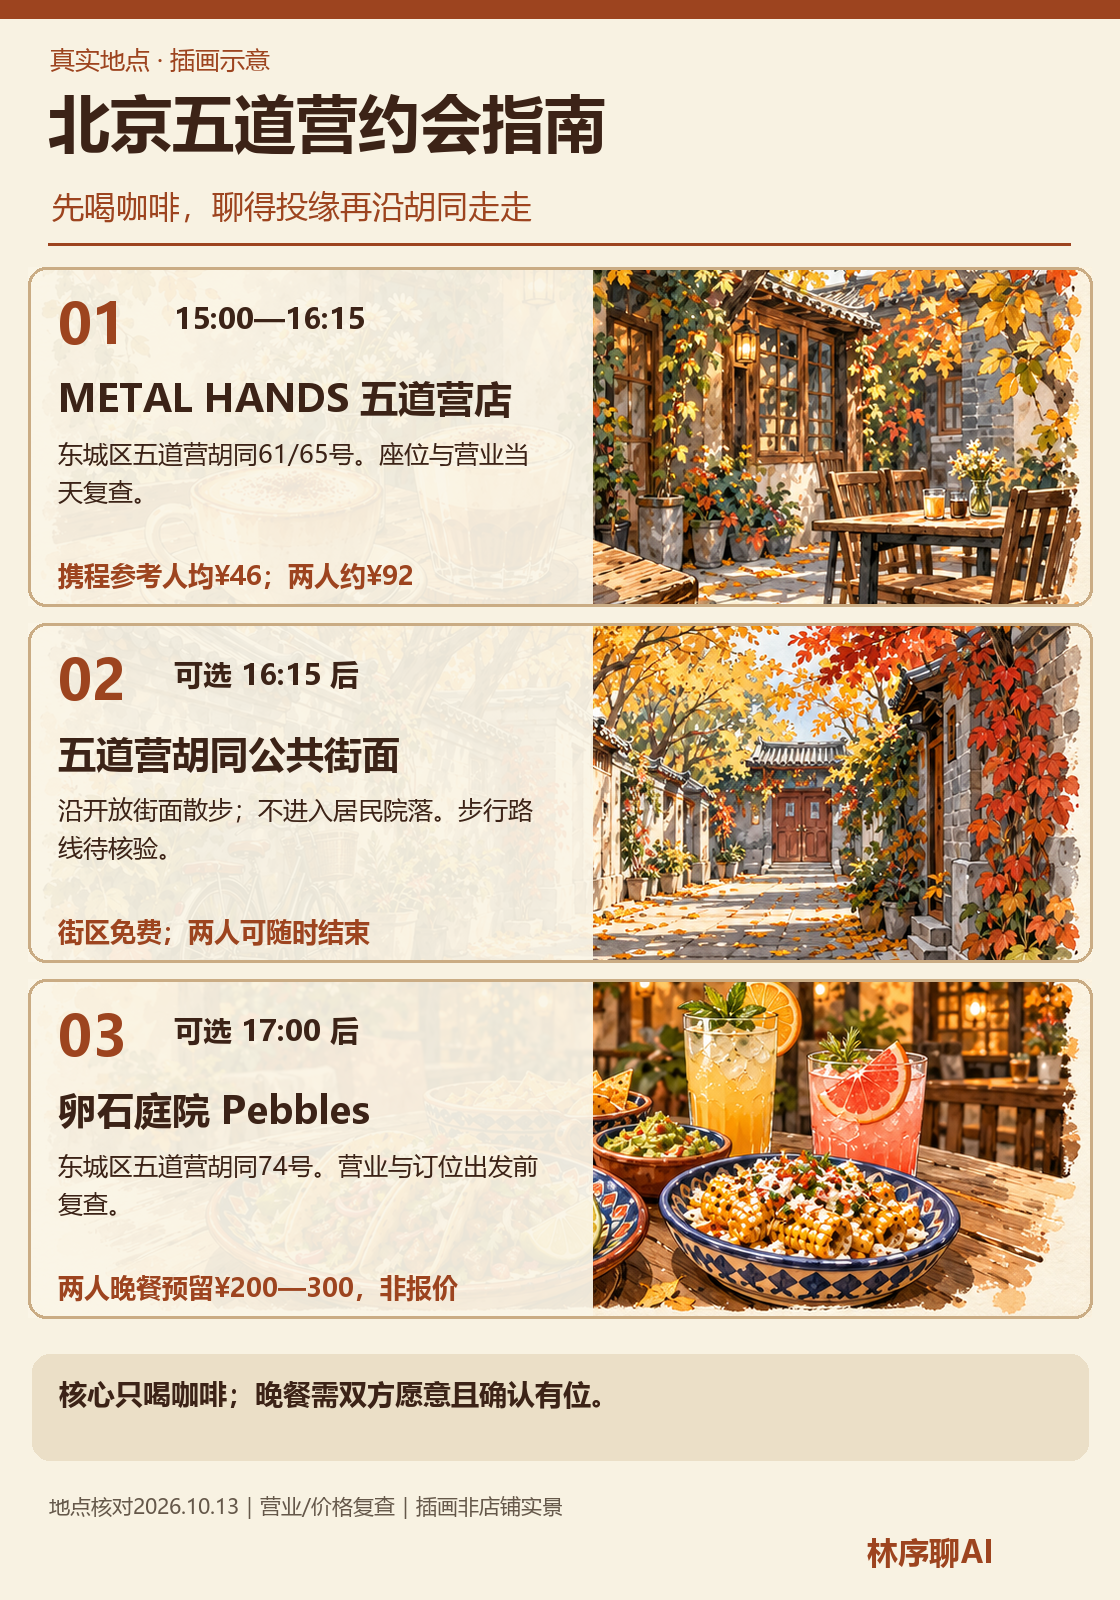
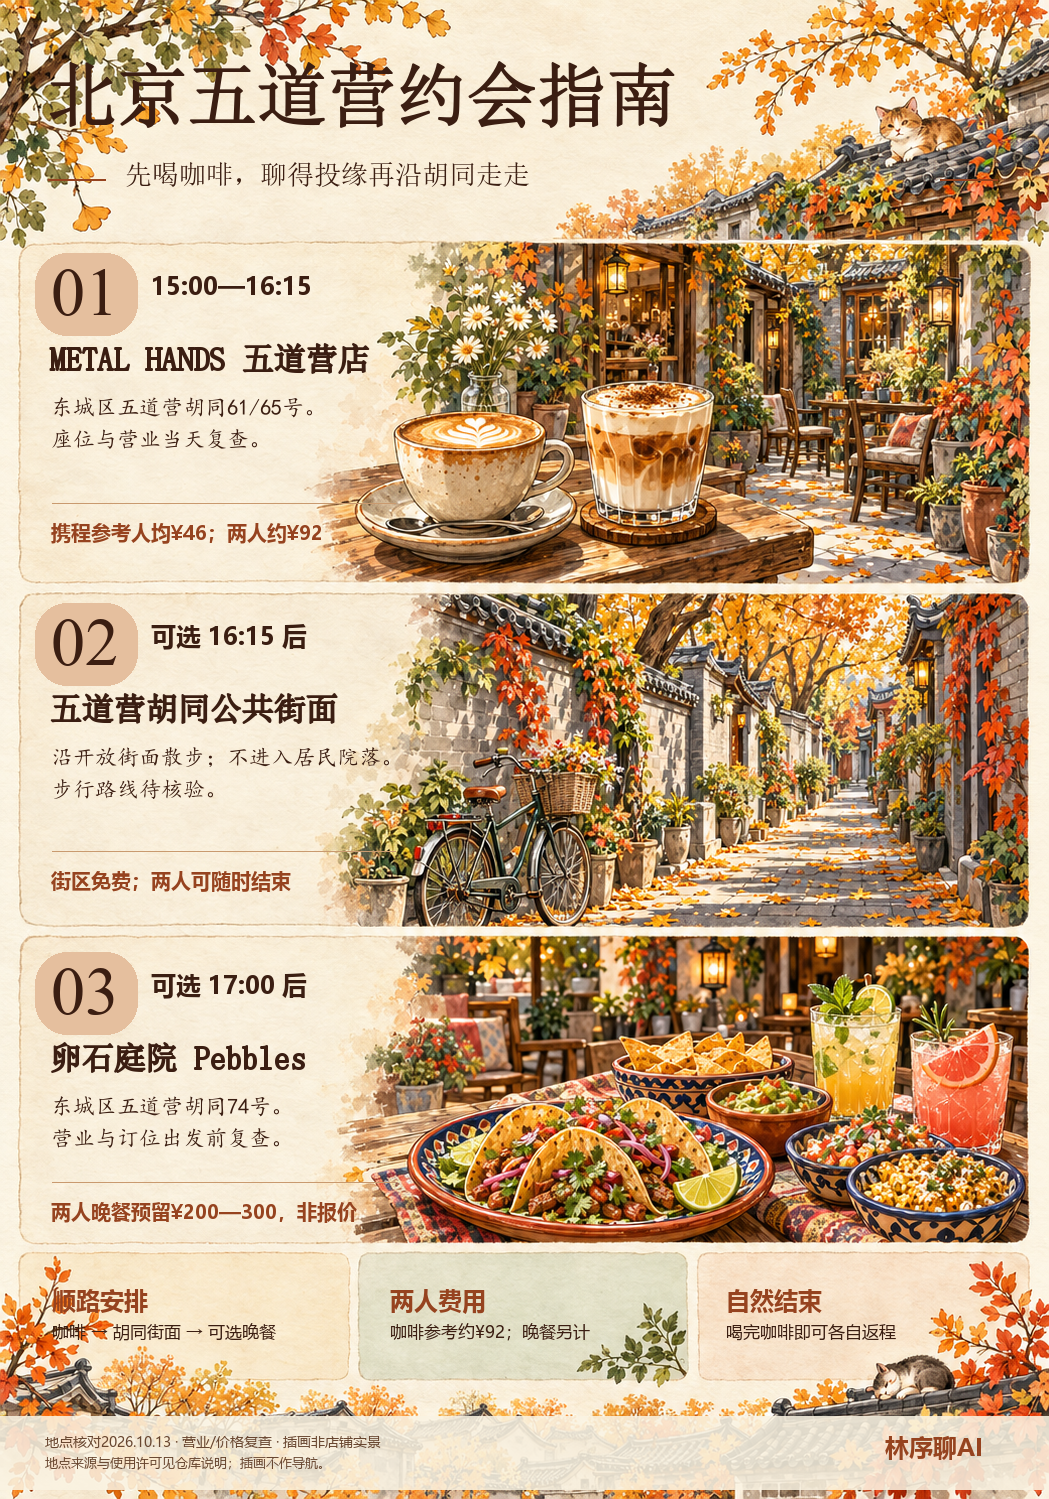
Redesign all sample posters in illustrated editorial style

diff --git a/scripts/render_poster.py b/scripts/render_poster.py
@@ -1,97 +1,125 @@
-"""Render editable Chinese itinerary text over illustration panels; no map API."""
+"""Render verified itinerary copy over watercolor artwork."""
 from __future__ import annotations
 
 import json
 import sys
 from pathlib import Path
-
-from PIL import Image, ImageDraw, ImageFont, ImageOps
+from PIL import Image, ImageDraw, ImageFont
 
 ROOT = Path(__file__).resolve().parents[1]
-FONT = Path('C:/Windows/Fonts/msyh.ttc')
-FONT_BOLD = Path('C:/Windows/Fonts/msyhbd.ttc')
-SIZE = (1120, 1600)
-PANEL_BOXES = [(28, 267, 1092, 606), (28, 623, 1092, 962), (28, 979, 1092, 1318)]
-ART_CROPS = [(0.02, 0.05, 0.98, 0.36), (0.02, 0.36, 0.98, 0.66), (0.02, 0.67, 0.98, 0.96)]
+SERIF = Path("C:/Windows/Fonts/simsun.ttc")
+SERIF_BOLD = Path("C:/Windows/Fonts/simsun.ttc")
+KAI = Path("C:/Windows/Fonts/simkai.ttf")
+SANS = Path("C:/Windows/Fonts/msyh.ttc")
+SANS_BOLD = Path("C:/Windows/Fonts/msyhbd.ttc")
+LATIN = Path("C:/Windows/Fonts/times.ttf")
+WIDTH, HEIGHT = 1049, 1499
+BROWN = (59, 30, 18)
+RUST = (150, 67, 31)
+MUTED = (104, 70, 48)
+PANELS = [(236, 574), (586, 922), (935, 1253)]
 
 
-def font(size: int, bold: bool = False) -> ImageFont.FreeTypeFont:
-    path = FONT_BOLD if bold else FONT
+def face(path: Path, size: int) -> ImageFont.FreeTypeFont:
     if not path.exists():
-        raise RuntimeError('Missing Windows Chinese font; set FONT/FONT_BOLD in the script.')
+        raise RuntimeError(f"Required font missing: {path}")
     return ImageFont.truetype(str(path), size)
 
 
-def wrap(draw: ImageDraw.ImageDraw, text: str, face: ImageFont.FreeTypeFont, max_width: int) -> list[str]:
-    lines, current = [], ''
+def fit_font(draw: ImageDraw.ImageDraw, text: str, path: Path, size: int, width: int) -> ImageFont.FreeTypeFont:
+    while size > 18 and draw.textlength(text, font=face(path, size)) > width:
+        size -= 2
+    return face(path, size)
+
+
+def lines(draw: ImageDraw.ImageDraw, text: str, font: ImageFont.FreeTypeFont, max_width: int) -> list[str]:
+    result: list[str] = []
+    current = ""
     for char in text:
-        proposal = current + char
-        if current and draw.textlength(proposal, font=face) > max_width:
-            lines.append(current)
+        candidate = current + char
+        if current and draw.textlength(candidate, font=font) > max_width:
+            result.append(current)
             current = char
         else:
-            current = proposal
+            current = candidate
     if current:
-        lines.append(current)
-    return lines
+        result.append(current)
+    return result
+
+
+def caption(draw: ImageDraw.ImageDraw, label: str, body: str, x: int, y: int, width: int) -> None:
+    draw.text((x, y), label, font=face(SANS_BOLD, 24), fill=RUST)
+    body_font = face(SANS, 17)
+    for index, line in enumerate(lines(draw, body, body_font, width)[:3]):
+        draw.text((x, y + 37 + index * 27), line, font=body_font, fill=BROWN)
 
 
 def render(source: Path) -> Path:
-    data = json.loads(source.read_text(encoding='utf-8'))
-    required = {'title', 'subtitle', 'tag', 'art', 'theme', 'steps', 'summary', 'footer'}
+    data = json.loads(source.read_text(encoding="utf-8"))
+    required = {"title", "subtitle", "tag", "art", "theme", "steps", "summary", "footer"}
     if missing := required - data.keys():
-        raise ValueError(f'Missing fields: {sorted(missing)}')
-    if len(data['steps']) != 3:
-        raise ValueError('Template requires exactly three steps')
-    if '林序聊AI' in data['title'] or '林序聊AI' in data['footer']:
-        raise ValueError('Brand label is drawn by the fixed template')
+        raise ValueError(f"Missing fields: {sorted(missing)}")
+    if len(data["steps"]) != 3:
+        raise ValueError("Template requires exactly three steps")
+    art = Image.open(ROOT / data["art"]).convert("RGB").resize((WIDTH, HEIGHT), Image.Resampling.LANCZOS)
+    draw = ImageDraw.Draw(art)
 
-    art = Image.open(ROOT / data['art']).convert('RGB')
-    paper = (248, 242, 226) if data['theme'] == 'autumn' else (240, 242, 231)
-    accent = (157, 68, 31) if data['theme'] == 'autumn' else (64, 99, 94)
-    dark = (60, 35, 23)
-    image = Image.new('RGB', SIZE, paper)
-    draw = ImageDraw.Draw(image)
-    draw.rectangle((0, 0, SIZE[0], 18), fill=accent)
-    draw.text((50, 42), data['tag'], font=font(25), fill=accent)
-    title_face = font(62, True)
-    if draw.textlength(data['title'], font=title_face) > 1020:
-        title_face = font(54, True)
-    draw.text((48, 80), data['title'], font=title_face, fill=dark)
-    draw.text((52, 184), data['subtitle'], font=font(32), fill=accent)
-    draw.line((48, 244, 1070, 244), fill=accent, width=3)
+    title_font = fit_font(draw, data["title"], SERIF_BOLD, 70, 735)
+    draw.text((47, 59), data["title"], font=title_font, fill=BROWN, stroke_width=1)
+    subtitle_font = fit_font(draw, data["subtitle"], SERIF, 27, 710)
+    draw.line((48, 179, 105, 179), fill=RUST, width=2)
+    draw.text((125, 160), data["subtitle"], font=subtitle_font, fill=BROWN)
+    draw.line((940, 179, 997, 179), fill=RUST, width=2)
 
-    for i, (step, box, fractions) in enumerate(zip(data['steps'], PANEL_BOXES, ART_CROPS), start=1):
-        ax1, ay1, ax2, ay2 = fractions
-        crop = art.crop((int(art.width * ax1), int(art.height * ay1), int(art.width * ax2), int(art.height * ay2)))
-        panel = ImageOps.fit(crop, (box[2] - box[0], box[3] - box[1]), method=Image.Resampling.LANCZOS)
-        image.paste(panel, box[:2])
-        overlay = Image.new('RGBA', (565, box[3] - box[1]), (250, 245, 231, 238))
-        image.paste(overlay, (box[0], box[1]), overlay)
-        draw = ImageDraw.Draw(image)
-        draw.rounded_rectangle(box, radius=18, outline=(202, 172, 132), width=3)
-        left, top = box[0] + 30, box[1] + 18
-        draw.text((left, top), f'{i:02d}', font=font(55, True), fill=accent)
-        draw.text((left + 116, top + 13), step['time'], font=font(29, True), fill=dark)
-        draw.text((left, top + 86), step['name'], font=font(38, True), fill=dark)
-        y = top + 151
-        for line in wrap(draw, step['note'], font(25), 490)[:3]:
-            draw.text((left, y), line, font=font(25), fill=dark)
-            y += 38
-        draw.text((left, box[3] - 49), step['budget'], font=font(26, True), fill=accent)
+    for index, (step, bounds) in enumerate(zip(data["steps"], PANELS), 1):
+        y0, y1 = bounds
+        draw.rounded_rectangle((35, y0 + 17, 137, y0 + 99), radius=32, fill=(229, 191, 158))
+        draw.text((51, y0 + 18), f"{index:02d}", font=face(LATIN, 68), fill=BROWN)
+        time_font = fit_font(draw, step["time"], SANS_BOLD, 25, 253)
+        draw.text((151, y0 + 32), step["time"], font=time_font, fill=BROWN)
+        name_font = fit_font(draw, step["name"], SERIF_BOLD, 32, 386)
+        draw.text((50, y0 + 106), step["name"], font=name_font, fill=BROWN, stroke_width=1)
 
-    draw = ImageDraw.Draw(image)
-    draw.rounded_rectangle((32, 1354, 1088, 1460), radius=18, fill=(235, 223, 199))
-    draw.text((59, 1374), data['summary'], font=font(28, True), fill=dark)
-    draw.text((49, 1491), data['footer'], font=font(21), fill=(101, 88, 74))
-    draw.text((867, 1530), '林序聊AI', font=font(31, True), fill=accent)
-    output = ROOT / 'examples' / 'posters' / (source.stem + '.png')
+        note_font = face(KAI, 22)
+        note_lines: list[str] = []
+        for segment in step["note"].replace("。", "。\n", 1).splitlines():
+            note_lines.extend(lines(draw, segment, note_font, 367))
+        for j, line in enumerate(note_lines[:3]):
+            draw.text((51, y0 + 160 + j * 32), line, font=note_font, fill=BROWN)
+
+        draw.line((52, y1 - 71, 395, y1 - 71), fill=(201, 154, 111), width=1)
+        budget_font = fit_font(draw, step["budget"], SANS_BOLD, 20, 365)
+        draw.text((51, y1 - 56), step["budget"], font=budget_font, fill=RUST)
+
+    captions = {
+        "first-meeting": (("顺路安排", "咖啡 → 胡同街面 → 可选晚餐"), ("两人费用", "咖啡参考约¥92；晚餐另计"), ("自然结束", "喝完咖啡即可各自返程")),
+        "half-day": (("顺路安排", "咖啡 → 武康路 → 可选晚餐"), ("两人费用", "咖啡预留¥80—120，非报价"), ("自然结束", "散步后可各自返程")),
+        "rainy-day": (("雨天安排", "咖啡后可直接返程"), ("两人费用", "饮品预留¥120—200，非报价"), ("可选晚餐", "需双方同意并确认有位")),
+    }
+    footer_cards = captions.get(source.stem, (
+        ("路线安排", data["summary"]),
+        ("核心费用", data["steps"][0]["budget"]),
+        ("出发前", "复核营业、价格和交通"),
+    ))
+    for x, item in zip((39, 377, 713), footer_cards):
+        caption(draw, *item, x + 13, 1283, 273)
+
+    cover = Image.new("RGBA", (WIDTH, 74), (250, 243, 226, 222))
+    art.paste(cover, (0, 1416), cover)
+    draw = ImageDraw.Draw(art)
+    footer = data["footer"].replace("｜", " · ")
+    footer_font = fit_font(draw, footer, SANS, 14, 700)
+    draw.text((45, 1432), footer, font=footer_font, fill=MUTED)
+    draw.text((45, 1454), "地点来源与使用许可见仓库说明；插画不作导航。", font=face(SANS, 13), fill=MUTED)
+    draw.text((885, 1430), "林序聊AI", font=face(SANS_BOLD, 24), fill=RUST)
+
+    output = ROOT / "examples" / "posters" / f"{source.stem}.png"
     output.parent.mkdir(parents=True, exist_ok=True)
-    image.save(output, optimize=True)
+    art.save(output, optimize=True)
     return output
 
 
-if __name__ == '__main__':
+if __name__ == "__main__":
     if len(sys.argv) != 2:
-        raise SystemExit('Usage: python scripts/render_poster.py examples/first-meeting.json')
+        raise SystemExit("Usage: python scripts/render_poster.py examples/first-meeting.json")
     print(render(ROOT / sys.argv[1]))

diff --git a/references/illustration-prompts.md b/references/illustration-prompts.md
@@ -1,17 +1,29 @@
-# 三张插画的提示词
+# 三张海报的水彩画底提示词
 
-这些提示词生成的是**无字场景插画**，最终海报的店名、地址、预算、来源提示和品牌标签由脚本绘制。生图模型可能改变细节，仓库提供的 `assets/*.png` 是本次实际使用的固定素材。三张插画均按用户提供的北京五道营海报的水彩纸张质感与三段结构制作；没有复制该图中的文字、评分或地图。
+最终海报使用仓库内固定的三张画底（`assets/*.png`）和 `scripts/render_poster.py` 叠字。重新生图只能得到风格相近的画底，不能保证像素一致。生图只绘场景，不写店名、地址、评分、价格或品牌字。参考图仅用于水彩质感、三段构图和留白，不复制其中的文字与店铺信息。
+
+## 通用构图与风格
+
+> 竖版约 7:10，精致编辑插画水彩海报画底，陈旧米白纸张纤维，细腻墨线、丰富但克制的场景细节。顶部约 15% 为基本空白的标题区，边缘有植物枝叶和一只小猫。中间三块圆角横幅插画，上下间隔窄；每块**左侧 42% 留浅色、干净、可读的纸张空白**，右侧 58% 是细节充足的场景，水彩边缘自然晕染。底部三块浅色信息盒与街区建筑轮廓。颜色暖棕、陶土橙、鼠尾草绿。禁止任何文字、汉字、拉丁字母、数字、伪文字、商标、店招、二维码、水印或地图。场景是艺术印象，不冒充店铺实景。
+
+画底实际生成尺寸约 1049 × 1499；排版脚本会统一到该尺寸。若使用用户提供的参考图，将它作为**风格与构图参考**，不要复制原图内容。
 
 ## 北京五道营
 
-> 竖版 4:5，中国编辑插画水彩组图，米白纸张肌理，秋日暖棕与橙色，丰富但克制的细节。纵向分成三个宽幅场景，留浅色纸张间隔：①北京胡同公共咖啡馆的两杯咖啡；②秋日五道营式灰砖胡同的开放街面、落叶与自行车，不展示进入居民院落；③温暖的公共餐厅餐桌、墨西哥风格餐食和无酒精饮品。画面只作氛围示意，不复刻真实店铺。不要任何文字、数字、商标、二维码、地图或地址。
+在通用提示词后补充：
+
+> 北京五道营胡同，秋季金黄树叶、灰砖灰瓦、暖色灯笼。第一幅右侧：胡同公共咖啡馆庭院，一张木桌上两杯精致咖啡，花瓶与小白花，后景是灰砖咖啡庭院。第二幅右侧：开放的胡同公共街面，单车、盆栽、落叶与远处院门，不表现进入居民院落。第三幅右侧：北京庭院餐桌，墨西哥风格共享餐食、玉米片、彩色无酒精饮品，温暖黄昏灯光。底部以灰瓦胡同屋顶和秋叶作收边。
 
 ## 上海武康路
 
-> 竖版 4:5，精致水彩，象牙色纸张纹理，上海梧桐街道与老洋房的秋日氛围。纵向排列三个互相分隔的宽幅场景：①梧桐与历史建筑旁明亮咖啡庭院里的咖啡杯；②武康路式公共人行道、梧桐树和洋房立面；③老洋房餐厅风格的餐桌与意式食物。场景是艺术印象，不是店铺实景。不要文字、数字、标志、二维码或地图。
+在通用提示词后补充：
+
+> 上海武康路的春日梧桐与历史洋房。第一幅右侧：艺术感现代咖啡馆外的两杯咖啡、藤编椅与梧桐树影，老洋房在后景。第二幅右侧：开放的武康路公共人行道、梧桐树、洋房立面、单车与远处行人。第三幅右侧：老洋房餐厅气氛，精致西式晚餐桌、暖光与黄昏窗景。底部以洋房屋顶、花枝与浅绿信息盒收边。
 
 ## 上海新天地雨天
 
-> 竖版 4:5，带米白纸张肌理的精致水彩组图，雨天的上海石库门建筑，室内暖光与窗外雨色形成对比。纵向分成三个宽幅场景：①室内咖啡桌上的茶、咖啡和甜点，窗外是新天地式公共街区；②雨中的公共街区和撑伞行人；③室内意式餐厅的晚餐桌。画面不是具体商家的照片或精确空间。不要文字、数字、标志、二维码或地图。
+在通用提示词后补充：
 
-生成后检查：没有可误认的商标或店招；场景不冒充实景；色调与固定模板可读文字区匹配。需要精确地图时使用独立 GIS 流程。
+> 雨中的上海新天地北里，石库门砖墙、湿润石板路、室内暖光，橙棕和鼠尾草绿。第一幅右侧：室内咖啡桌上的咖啡、糕点和花瓶，窗外可见雨中的石库门建筑。第二幅右侧：新天地公共通道，雨伞、盆栽、湿石板反光和暖色灯笼；不虚构具体店招。第三幅右侧：石库门拱门边温暖意式餐厅气氛，意面和无酒精饮品。底部以石库门屋顶、秋雨枝叶及三块浅色信息盒收边。
+
+生成后检查留白是否足够、是否出现伪文字或可误认的商标。生图模型产生的街道与店铺外观不一定真实；地点事实只以 `examples/sources.md` 为准。

diff --git a/references/poster-workflow.md b/references/poster-workflow.md
@@ -14,7 +14,7 @@
 
 下面是本仓库示例插画使用的可复用提示词结构；三张图的具体提示词见[插画提示词](illustration-prompts.md)。把城市视觉元素和三段场景替换成你已确认的方案；**不要让生图模型写文字**。
 
-> 生成一张竖版 4:5 中国编辑插画水彩组图。米白纸张肌理、暖色、丰富但克制的场景细节；纵向排列三个互相分隔的宽幅场景：①[会合/咖啡场景]；②[可选散步或室内活动]；③[可选用餐或结束场景]。每段周围留浅色纸张边距，方便后续叠加文字。不要生成任何文字、数字、商标、二维码、道路地图、地址或店名。场景为气氛示意，不暗示真实商家。
+> 生成一张竖版约 7:10 的精致水彩海报画底。顶部留完整标题区，中部是三条圆角宽幅场景，各条左侧约 42% 为干净米白纸张留白，右侧为[咖啡]、[可选散步或室内活动]、[可选晚餐]的细致场景。底部留三块浅色信息盒。用植物、小猫和当地建筑边饰串联画面。不要文字、数字、商标、二维码、地址、店名或导航地图。细节见[三张画底提示词](illustration-prompts.md)。
 
 示例图的创作参考是用户提供的北京五道营水彩约会指南图。原图没有作为可导航地图使用。本仓库的模板与插画是新制作的演示，不包含 Map Creator 的源码或地图数据。
 

diff --git a/README.md b/README.md
@@ -28,7 +28,7 @@ python scripts/render_poster.py examples/rainy-day.json
 python scripts/render_poster.py examples/half-day.json
 ```
 
-模板目前使用 Windows 的微软雅黑字体。其他系统可在脚本顶部调整 `FONT` 和 `FONT_BOLD`，选用支持中文的字体。海报数据在 `examples/*.json`，插画组图在 `assets/`；修改 JSON 后重跑即可。地点依据与预算边界见[核验记录](examples/sources.md)，制作步骤见[海报生成流程](references/poster-workflow.md)，三张图的场景描述见[插画提示词](references/illustration-prompts.md)。
+模板目前使用 Windows 的宋体、楷体和微软雅黑。其他系统可在脚本顶部修改字体路径，选用支持中文与人民币符号的字体。海报数据在 `examples/*.json`，无字水彩画底在 `assets/`；修改 JSON 后重跑即可。地点依据与预算边界见[核验记录](examples/sources.md)，制作步骤见[海报生成流程](references/poster-workflow.md)，三张图的详细画底提示词见[插画提示词](references/illustration-prompts.md)。
 
 ## 来源与边界
 
